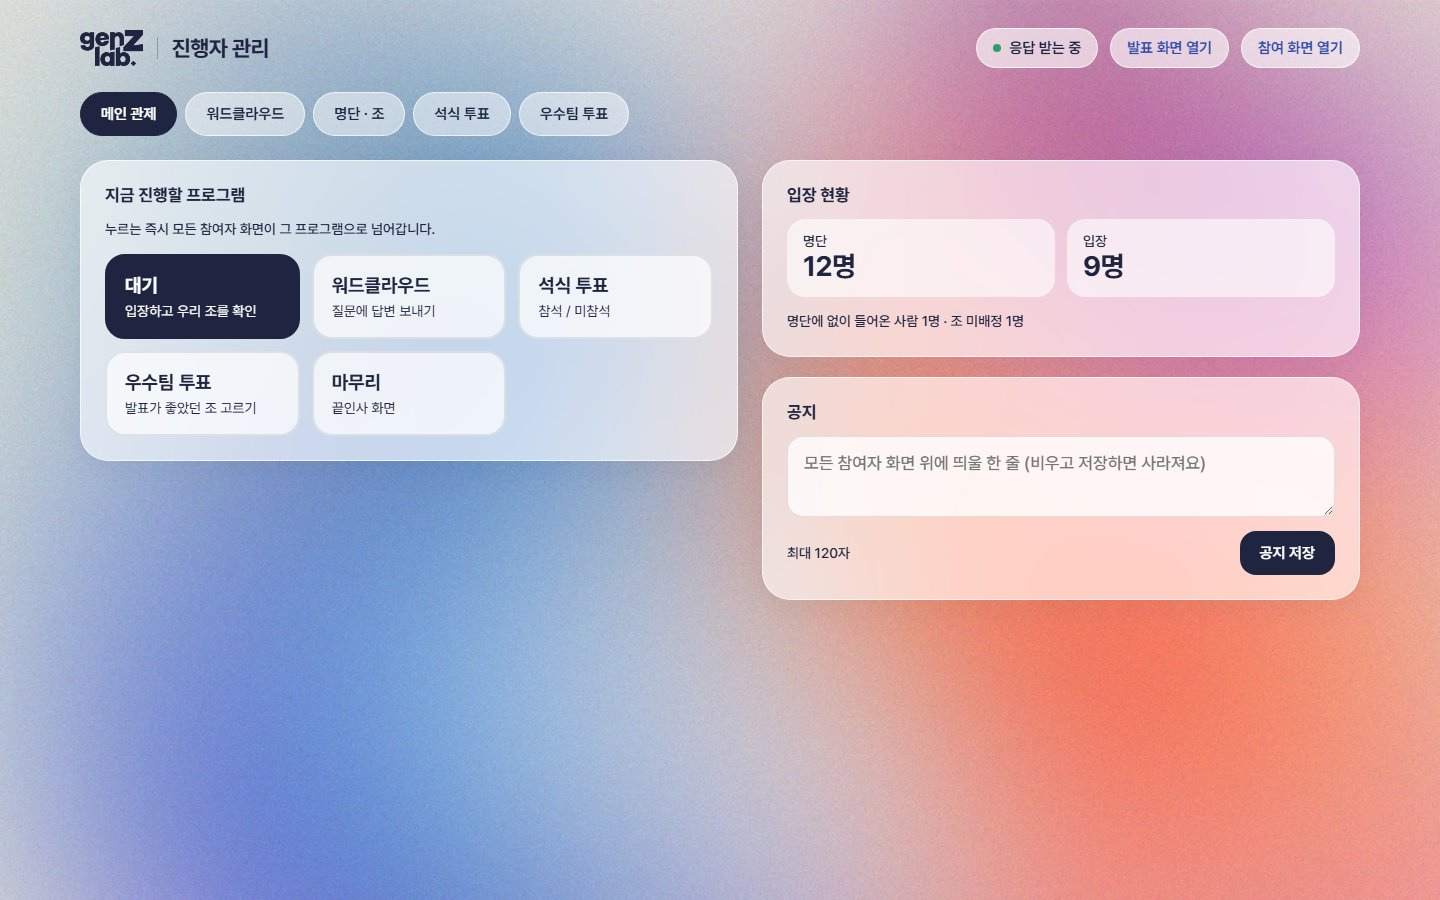
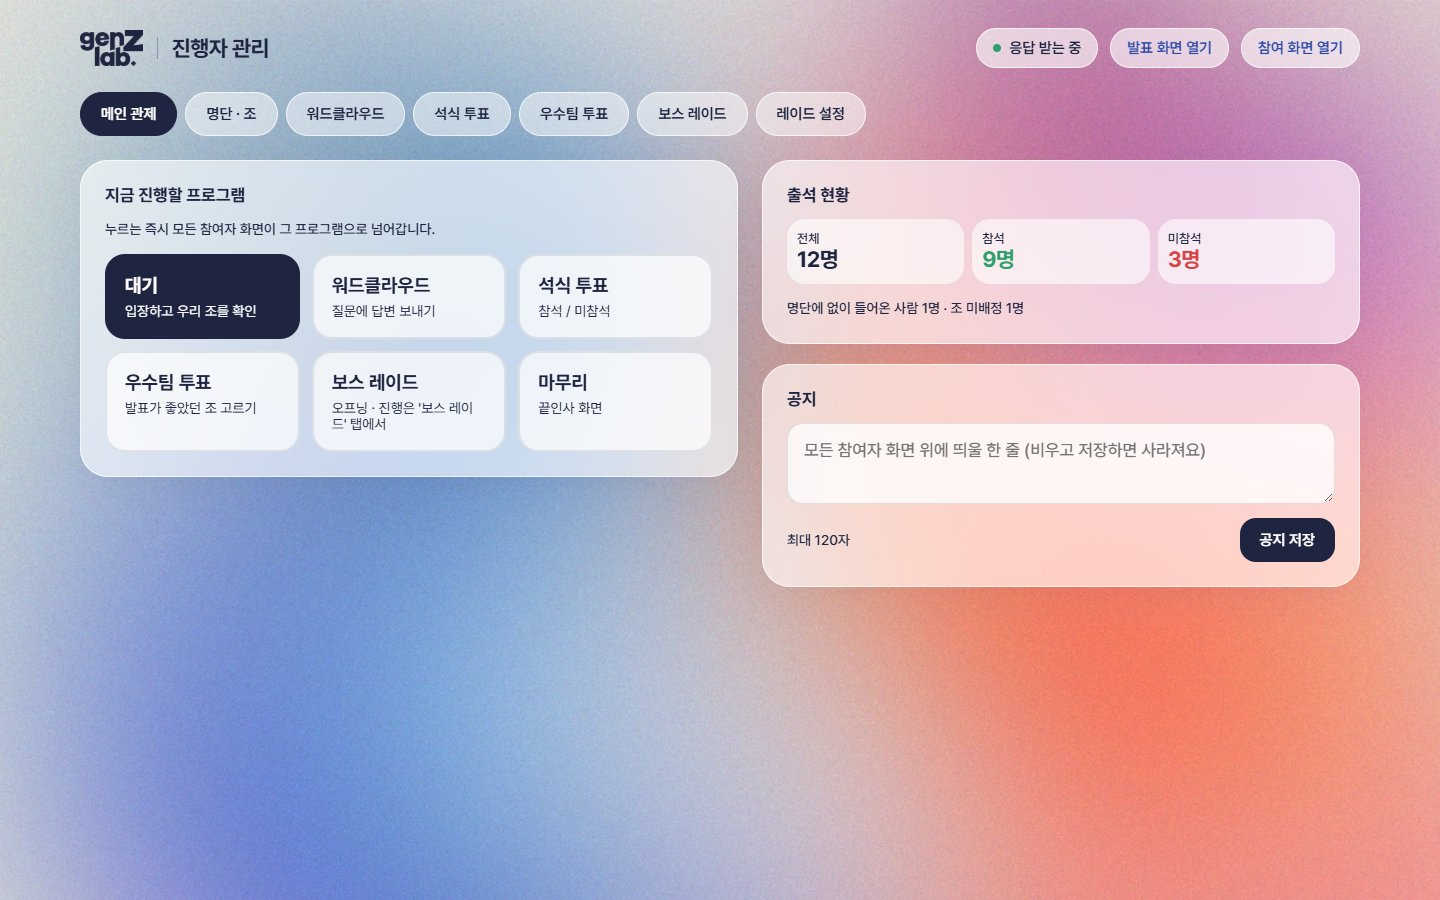
Attendance: count without Chief Crew, total/present/absent summary, README and screenshots

diff --git a/js/admin-platform.js b/js/admin-platform.js
@@ -2,6 +2,7 @@
 // 워드클라우드 탭은 js/admin.js 가 맡고, 로그인·서버 호출(api)은 admin.js 에서 넘겨받습니다.
 (function () {
   const $ = (id) => document.getElementById(id);
+  const STAFF = /chief|치프/i;         // 운영진 조: 출석 집계에서 뺍니다
   let ctx = null;                     // { api, demo, toast, getSession, setSession }
   let roster = { teams: [], participants: [] };
   let rosterRev = null;
@@ -72,12 +73,19 @@
       b.disabled = !ready;
     });
     if (!noticeDirty) $("notice-text").value = session.notice || "";
-    const joined = people.filter((p) => p.joined_at).length;
-    $("c-roster").textContent = people.length + "명";
+    // 출석은 운영진 조(이름에 Chief·치프가 들어간 조)를 빼고 셉니다.
+    const staffTeams = new Set(roster.teams.filter((t) => STAFF.test(t.name)).map((t) => t.team_no));
+    const counted = people.filter((p) => !staffTeams.has(p.team_no));
+    const joined = counted.filter((p) => p.joined_at).length;
+    const absent = counted.length - joined;
+    $("c-roster").textContent = counted.length + "명";
     $("c-joined").textContent = joined + "명";
+    $("c-absent").textContent = absent + "명";
     const walkIns = people.filter((p) => !p.is_preregistered).length;
     const unassigned = people.filter((p) => p.team_no == null).length;
-    $("c-note").textContent = "명단에 없이 들어온 사람 " + walkIns + "명 · 조 미배정 " + unassigned + "명";
+    const staffCount = people.length - counted.length;
+    $("c-note").textContent = (staffCount ? "Chief Crew " + staffCount + "명은 세지 않습니다 · " : "")
+      + "명단에 없이 들어온 사람 " + walkIns + "명 · 조 미배정 " + unassigned + "명";
 
     // 조 이름
     const chips = $("team-chips");
@@ -98,7 +106,7 @@
     if (!roster.teams.length) chips.textContent = "아직 조가 없어요. 명단을 올리면 자동으로 만들어집니다.";
 
     // 참가자 목록: 조마다 박스 하나 (조 번호 순, 미배정은 맨 끝). 박스 안은 이름 순.
-    $("roster-note").textContent = "전체 " + people.length + "명 · 참석 " + joined + "명 · 미참석 " + (people.length - joined) + "명";
+    $("roster-note").textContent = "전체 " + counted.length + "명 중 참석 " + joined + "명 · 미참석 " + absent + "명" + (staffCount ? " (Chief Crew " + staffCount + "명 제외)" : "");
     const list = $("roster-list");
     // 추가 칸에 적는 중이면 목록을 다시 그리지 않습니다(15초마다 새로 읽을 때 글자가 지워지지 않게).
     const typing = document.activeElement;
@@ -124,7 +132,9 @@
       title.textContent = box.title;
       const count = document.createElement("span");
       const here = members.filter((p) => p.joined_at).length;
-      count.textContent = members.length + "명 · 참석 " + here + " · 미참석 " + (members.length - here);
+      count.textContent = staffTeams.has(box.no)
+        ? members.length + "명 · 출석 집계에서 제외"
+        : members.length + "명 · 참석 " + here + " · 미참석 " + (members.length - here);
       head.append(title, count);
       el.appendChild(head);
       if (!members.length) {

diff --git a/admin.html b/admin.html
@@ -78,9 +78,10 @@
         <div class="left" style="flex:1 1 360px">
           <section class="glass">
             <h2>출석 현황</h2>
-            <div class="stats">
-              <div>명단<b id="c-roster">0명</b></div>
-              <div>참석<b id="c-joined">0명</b></div>
+            <div class="stats three">
+              <div>전체<b id="c-roster">0명</b></div>
+              <div>참석<b id="c-joined" style="color:#2E9E6B">0명</b></div>
+              <div>미참석<b id="c-absent" style="color:#D64545">0명</b></div>
             </div>
             <div class="sub" id="c-note"></div>
           </section>

diff --git a/README.md b/README.md
@@ -56,6 +56,18 @@
 3. 진행자가 **메인 관제** 탭에서 프로그램을 누르면 모든 참여자 화면이 그 프로그램으로 넘어갑니다. 발표 화면은 보스 레이드일 때 레이드 화면, 그 밖에는 워드클라우드를 보여 줍니다.
 4. 참여자가 오른쪽 위 자기 이름을 눌러 로그아웃하면 출석도 취소됩니다(투표한 내용은 남습니다).
 
+### 출석 (첫 화면)
+
+| 참여자 첫 화면 | 진행자 명단 · 조 탭 |
+|---|---|
+| <img src="docs/screenshots/welcome.jpg" width="260" alt="환영 화면"> | <img src="docs/screenshots/admin-roster.jpg" width="560" alt="출석 현황"> |
+
+- 참여자가 Knox ID를 적고 **출석하기**를 누르면 그 사람이 **참석**(초록)으로 바뀝니다. 아직 오지 않은 사람은 **미참석**(빨강)입니다.
+- 조 박스 안에서 참석한 사람이 위, 미참석이 아래로 모입니다.
+- "전체 N명 중 참석 N명 · 미참석 N명"이 메인 관제와 명단 · 조 탭에 나옵니다. Chief Crew는 세지 않습니다.
+- **출석 초기화**: 모두 미참석으로 되돌리고 열려 있던 휴대폰을 로그아웃시킵니다. 리허설 뒤 본 행사 전에 누릅니다.
+- NFC 태그를 쓰려면 태그에 참여 주소를 써 두면 됩니다. 코드 쪽 설정은 없습니다.
+
 ## 관리 화면
 
 비밀번호로 들어갑니다. 탭은 메인 관제 · 명단 · 조 · 워드클라우드 · 석식 투표 · 우수팀 투표 · 보스 레이드 · 레이드 설정입니다.
@@ -72,7 +84,7 @@
 
 조마다 박스 하나로 보입니다. 사람마다 조를 바꾸거나 지울 수 있고, 박스 맨 아래 줄에서 그 조에 사람을 추가합니다. 조 이름은 왼쪽 "조 이름"에서 눌러 바꿉니다. 바꾼 내용은 참여자 화면에 바로 반영됩니다.
 
-출석부로도 씁니다. Knox ID로 들어온 사람은 **참석**(초록), 아직 오지 않은 사람은 **미참석**(빨강)으로 칠해지고, 조 박스 안에서 참석한 사람이 위에 모입니다. 15초마다 새로 읽습니다. **출석 초기화**를 누르면 모든 사람이 미참석으로 돌아가고, 열려 있던 휴대폰은 로그아웃되어 첫 화면으로 갑니다(명단 · 조 · 투표는 그대로).
+출석부로도 씁니다. Knox ID로 들어온 사람은 **참석**(초록), 아직 오지 않은 사람은 **미참석**(빨강)으로 칠해지고, 조 박스 안에서 참석한 사람이 위에 모입니다. 15초마다 새로 읽습니다. 인원은 Chief Crew(조 이름에 "Chief" · "치프"가 들어간 조)를 빼고 세며, 메인 관제와 이 탭 위쪽에 "전체 N명 중 참석 N명 · 미참석 N명"으로 나옵니다. **출석 초기화**를 누르면 모든 사람이 미참석으로 돌아가고, 열려 있던 휴대폰은 로그아웃되어 첫 화면으로 갑니다(명단 · 조 · 투표는 그대로).
 
 ![명단 · 조](docs/screenshots/admin-roster.jpg)
 
@@ -325,6 +337,7 @@ node scripts/fake-60.mjs --people 30 --seconds 15
 - [ ] 스마트폰 한 대로 QR을 찍어 단어 하나를 보내 보고, 발표 화면에 뜨면 **모두 지우기**
 - [ ] 프로젝터에 발표 화면을 띄우고 F11로 전체화면 (보스 레이드 때는 자동으로 레이드 화면으로 바뀝니다. BGM 버튼은 그때 한 번 누르기)
 - [ ] 관리 화면은 진행자 노트북에 따로 열어 두기 (프로젝터에 비밀번호가 비치지 않게)
+- [ ] 리허설로 들어온 사람이 있으면 명단 · 조 탭에서 **출석 초기화**
 - [ ] 응답 받기가 **켜져** 있는지, 메인 관제가 **대기**인지 확인
 - [ ] Knox 메신저에 참여 링크 공유
 
